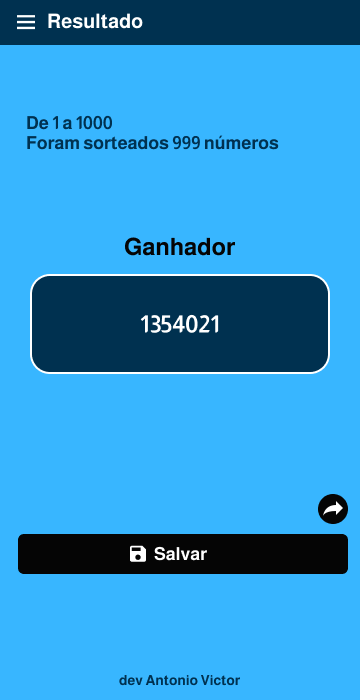
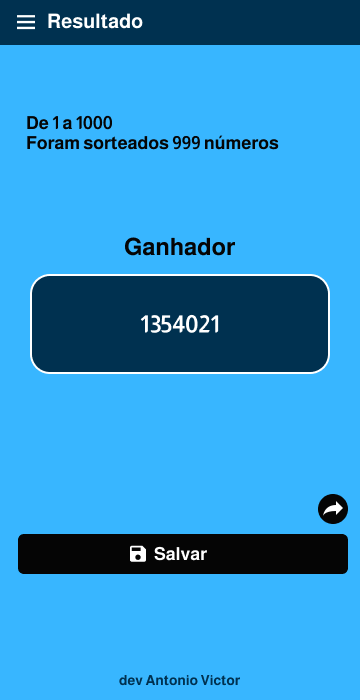
att

Changed region(s): [[0.0611, 0.15, 0.7639, 0.21]]

diff --git a/src/pages/TelaConfiguracao.js b/src/pages/TelaConfiguracao.js
@@ -5,6 +5,7 @@ import { View, ScrollView, Text, Image, Linking } from "react-native";
 import styles from "../style/StyleTelaConfiguracao";
 
 function TelaResultado() {
+    const [checkboxPorNumero, setCheckboxPorNumero] = useState(false);
     const [checkboxtodos, setCheckboxTodos] = useState(false);
     const [checkboxpar, setCheckboxPar] = useState(false);
     const [checkboximpar, setCheckboxImpar] = useState(false);
@@ -27,42 +28,54 @@ function TelaResultado() {
         setCheckboxTodos(true);
         setCheckboxPar(false);
         setCheckboxImpar(false);
-      };
-      
-      const handleCheckboxPar = () => {
+        setCheckboxPorNumero(false);
+
+    };
+
+    const handleCheckboxPar = () => {
         setCheckboxTodos(false);
         setCheckboxPar(true);
         setCheckboxImpar(false);
-      };
-      
-      const handleCheckboxImpar = () => {
+        setCheckboxPorNumero(false);
+
+    };
+
+    const handleCheckboxImpar = () => {
         setCheckboxTodos(false);
         setCheckboxPar(false);
         setCheckboxImpar(true);
-      };
+        setCheckboxPorNumero(false);
+
+    };
+    const handleCheckboxPorNumero = () => {
+        setCheckboxTodos(false);
+        setCheckboxPar(false);
+        setCheckboxImpar(false);
+        setCheckboxPorNumero(true);
+    };
 
 
- function funcaoBreakNumero () {
+    function funcaoBreakNumero() {
         const breakNumero = 50; // Número desejado para o sorteio
         let guardarNumero;
-        
+
         do {
 
-          guardarNumero = Math.floor(Math.random() * 100); // Gera um número aleatório entre 1 e 5
+            guardarNumero = Math.floor(Math.random() * 100) + 1; // Gera um número aleatório entre 1 e 5
 
 
 
-        }   while ( guardarNumero % 2 === 0);
-    
+        } while (guardarNumero % 2 === 0);
+
         console.log(guardarNumero);
-      };
-    
+    };
+
 
 
 
 
     return (
-        <View style={styles.containerPrincipal}>
+        <ScrollView style={styles.containerPrincipal}>
             <View style={styles.viewSorteio}>
                 <Text style={styles.text}>Escolhar como desejar sortear</Text>
             </View>
@@ -71,8 +84,21 @@ function TelaResultado() {
                 <View style={styles.viewGanhador}>
                 </View>
 
-                <View style={styles.butoes}>
-                    <Text style={styles.text2}>Por número:</Text>
+                <View style={styles.viewCard}>
+                    <View style={styles.flexbox} >
+
+                        <Checkbox
+                            status={checkboxPorNumero ? 'checked' : 'unchecked'}
+                            onPress={() => {
+                                handleCheckboxPorNumero();
+                            }}
+                            uncheckedColor="#fff"
+                            color="#fff"
+                        />
+                        <Text style={styles.textBox}>
+                            Somente pelo número:
+                        </Text>
+                    </View>
                     <TextInput
                         label={'Escolhar o número'}
                         textColor="#fff"
@@ -86,65 +112,66 @@ function TelaResultado() {
                         keyboardType="numeric"
                         maxLength={10}
                     />
-                    <Text style={styles.text3}>Exemplo: o sorteio irá parar no número escolhido e ele será o ganhador.</Text>
-                    <Text style={styles.text3}>Número escolhido: {numerosEscolhidos}</Text>
-                </View>
-                <View style={styles.viewDivider}>
-                    <Text style={styles.textDivider}>
-                        <Divider
-                            style={styles.divider}
-                            bold={true}
-                        />
-                        OU
-                        <Divider
-                            style={styles.divider}
-                            bold={true}
-                        />
-                    </Text>
+                    <Text style={styles.text3}>Ex: o sorteio irá parar no número escolhido e ele será o ganhador.</Text>
+                    <Text style={styles.text3}>Número escolhido: <Text style={{ color: '#38B6FF', fontWeight: 700 }}>{numerosEscolhidos}</Text></Text>
                 </View>
 
                 <View style={styles.viewBox}>
-                    <View style={styles.flexbox} >
 
-                        <Checkbox
-                            status={checkboxtodos ? 'checked' : 'unchecked'}
-                            onPress={() => {
-                                handleCheckboxTodos();
-                            }}
-                            uncheckedColor="#003150"
-                            color="#003150"
-                        />
-                        <Text style={styles.textBox}>
-                            Todos os numeros.
-                        </Text>
+                    <View style={styles.viewCard}>
+                        <View style={styles.flexbox} >
+
+                            <Checkbox
+                                status={checkboxtodos ? 'checked' : 'unchecked'}
+                                onPress={() => {
+                                    handleCheckboxTodos();
+                                }}
+                                uncheckedColor="#fff"
+                                color="#fff"
+                            />
+                            <Text style={styles.textBox}>
+                                Todos os numeros.
+                            </Text>
+                        </View>
+                        <Text style={styles.text3}>Ex: o sorteio será padrão, todos participando.</Text>
                     </View>
-                    <View style={styles.flexbox}>
-                        <Checkbox
-                            status={checkboxpar ? 'checked' : 'unchecked'}
-                            onPress={() => {
-                                handleCheckboxPar();
-                            }}
-                            uncheckedColor="#003150"
-                            color="#003150"
-                        />
-                        <Text style={styles.textBox}>
-                            Somente numeros par.
-                        </Text>
+
+                    <View style={styles.viewCard}>
+
+                        <View style={styles.flexbox}>
+                            <Checkbox
+                                status={checkboxpar ? 'checked' : 'unchecked'}
+                                onPress={() => {
+                                    handleCheckboxPar();
+                                }}
+                                uncheckedColor="#fff"
+                                color="#fff"
+                            />
+                            <Text style={styles.textBox}>
+                                Somente numeros par.
+                            </Text>
+                        </View>
+                        <Text style={styles.text3}>Ex: o sorteio será somente com número par.</Text>
                     </View>
-                    <View style={styles.flexbox}>
-                        <Checkbox
-                            status={checkboximpar ? 'checked' : 'unchecked'}
-                            onPress={() => {
-                                handleCheckboxImpar();
-                            }}
-                            uncheckedColor="#003150"
-                            color="#003150"
-                        />
-                        <Text style={styles.textBox}>
-                            Somente numeros ímpar.
-                        </Text>
-                    </View>
-                </View >
+                    <View style={styles.viewCard}>
+
+                        <View style={styles.flexbox}>
+                            <Checkbox
+                                status={checkboximpar ? 'checked' : 'unchecked'}
+                                onPress={() => {
+                                    handleCheckboxImpar();
+                                }}
+                                uncheckedColor="#fff"
+                                color="#fff"
+                            />
+                            <Text style={styles.textBox}>
+                                Somente numeros ímpar.
+                            </Text>
+                        </View>
+                        <Text style={styles.text3}>Ex: o sorteio será somente com número ímpar.</Text>
+                    </View >
+                </View>
+
                 <Button
                     buttonColor="#000"
                     textColor="#fff"
@@ -154,6 +181,7 @@ function TelaResultado() {
                 >
                     Guardar dados
                 </Button>
+
                 <Button
                     textColor="#003150"
                     icon={'delete'}
@@ -165,7 +193,7 @@ function TelaResultado() {
 
             </View>
             <Text style={styles.dev}>Dev Antonio Victor</Text>
-        </View>
+        </ScrollView>
     )
 }
 

diff --git a/src/style/StyleTelaConfiguracao.js b/src/style/StyleTelaConfiguracao.js
@@ -5,8 +5,6 @@ const styles = StyleSheet.create({
         backgroundColor: '#38B6FF',
         color: '#fff',
         flex: 1,
-        justifyContent: 'center',
-        alignItems: 'center',
     },
     container: {
         marginLeft: 15,
@@ -19,9 +17,9 @@ const styles = StyleSheet.create({
         marginBottom: 20,
     },
     viewSorteio: {
-        marginTop:30,
-        marginBottom: 30,
-        right: 35,
+        marginTop: 30,
+        marginLeft: 15,
+        marginBottom: 40,
     },
     viewGanhador: {
         flexDirection: 'column',
@@ -29,7 +27,7 @@ const styles = StyleSheet.create({
     text: {
         fontWeight: 700,
         fontSize: 20,
-        color:'#003150',
+        color: '#000',
     },
     text2: {
         fontWeight: 700,
@@ -37,10 +35,11 @@ const styles = StyleSheet.create({
         marginBottom: 5,
     },
     text3: {
-        width:330,
+        width: 330,
         fontWeight: 400,
         fontSize: 16,
         marginBottom: 5,
+        color: '#fff',
     },
     textGanhador: {
         textAlign: 'center',
@@ -57,14 +56,17 @@ const styles = StyleSheet.create({
         marginBottom: 10,
     },
     butoes: {
-        marginTop: 30,
+        // marginTop: 30,
     },
     textInput: {
         width: 330,
         height: 50,
-        backgroundColor: '#003150',
+        backgroundColor: 'transparent',
         borderRadius: 6,
         marginBottom: 10,
+        borderColor: "#fff",
+        borderWidth: 1,
+        borderStyle: 'solid',
     },
     viewDivider: {
         marginTop: 25,
@@ -79,18 +81,31 @@ const styles = StyleSheet.create({
         fontSize: 18,
     },
     viewBox: {
-        marginTop: 10,
+        // marginTop: 10,
         marginBottom: 20,
-        marginRight: 105,
+        // marginRight: 105,
+        // justifyContent:"center",
+        // alignItems:'center',
+        // alignContent:'center'
+    },
+    viewCard: {
+        backgroundColor: "#003150",
+        padding: 12,
+        borderRadius: 6,
+        minWidth: 355,
+        marginBottom: 15,
     },
     flexbox: {
-        flexDirection: 'row'
+        flexDirection: 'row',
+        marginBottom: 5
     },
     textBox: {
-        fontWeight:700,
+        fontWeight: 700,
         fontSize: 18,
         marginTop: 4,
+        marginTop: 4,
         marginLeft: 0,
+        color: '#fff',
     },
     button: {
         height: 40,
@@ -98,6 +113,8 @@ const styles = StyleSheet.create({
         borderRadius: 6,
     },
     dev: {
+        marginTop: 40,
+        textAlign: "center",
         color: '#003150',
         bottom: 10,
     },

diff --git a/src/style/StyleTelaResultado.js b/src/style/StyleTelaResultado.js
@@ -24,7 +24,7 @@ const styles = StyleSheet.create({
     text: {
         fontWeight: 700,
         fontSize: 18,
-        color: '#003150'
+        color: '#000'
     },
     textGanhador: {
         textAlign: 'center',
